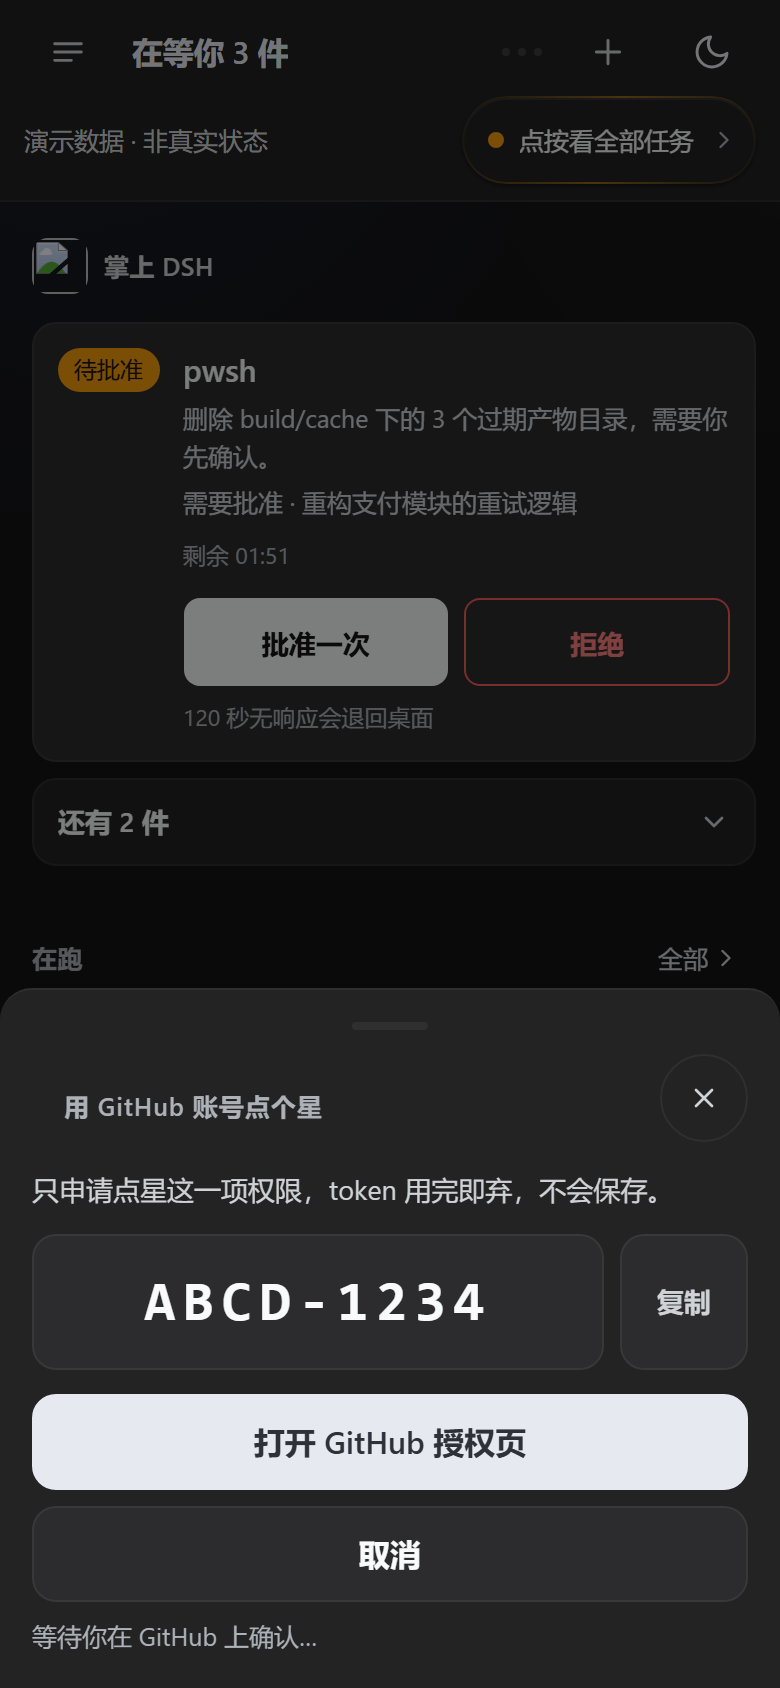
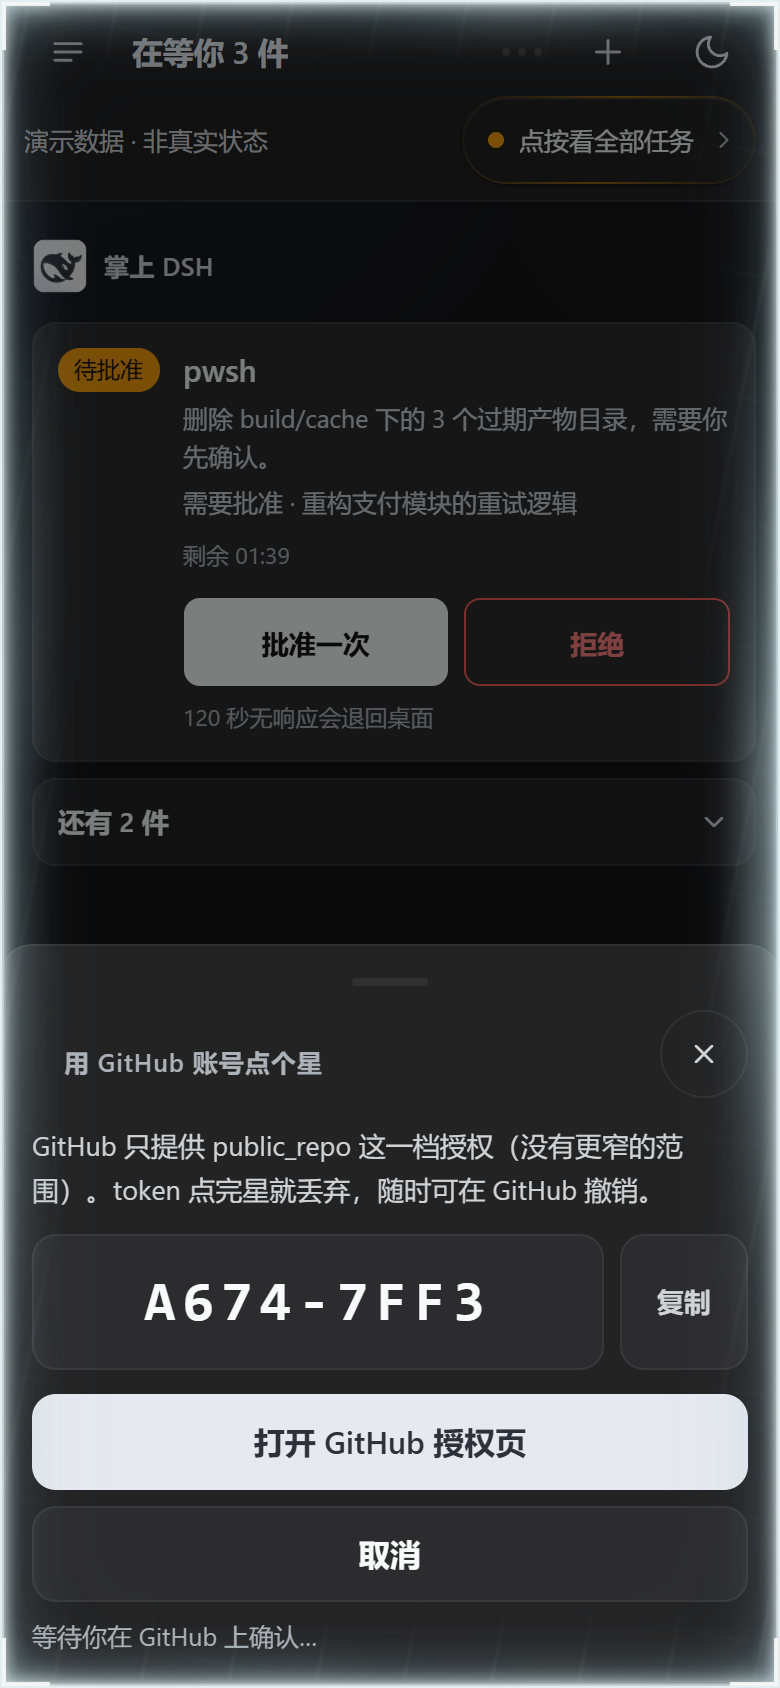
docs(demo): 演示页品牌图标改相对路径（原来 /taskwatch 绝对路径在 file:// 下是破图），并更新点星授权面板明暗截图

Changed region(s): [[0.0, 0.0, 1.0, 1.0], [0.4308, 0.7393, 0.4615, 0.8009], [0.3385, 0.3081, 0.3692, 0.3389]]

diff --git a/docs/demo.html b/docs/demo.html
@@ -29,8 +29,8 @@
 })()
 </script>
 <link rel="manifest" href="/taskwatch/manifest.webmanifest">
-<link rel="icon" type="image/png" sizes="192x192" href="/taskwatch/icon-192.png">
-<link rel="apple-touch-icon" href="/taskwatch/icon-192.png">
+<link rel="icon" type="image/png" sizes="192x192" href="../lib/icons/icon-192.png">
+<link rel="apple-touch-icon" href="../lib/icons/icon-192.png">
 <style>
 /* ---------------------------------------------------------------------------
    手机对话页。
@@ -2229,7 +2229,7 @@ html,body{overflow-x:clip}
        两处刻意不复用样式——概览不该有动效。alt 留空，因为旁边的「掌上 DSH」已经说了名字，
        读屏再念一次图标只是重复；图标若要单独存活（例如被样式隐藏文字），再补 alt。 -->
   <div class="home-brand">
-    <img class="brand" src="/taskwatch/icon-192.png" alt="" width="28" height="28" decoding="async">
+    <img class="brand" src="../lib/icons/icon-192.png" alt="" width="28" height="28" decoding="async">
     <span class="name">掌上 DSH</span>
   </div>
   <div id="homeTodo" class="home-todo"></div>
@@ -4071,11 +4071,11 @@ function renderEmpty(){
   var d = document.createElement('div')
   d.className = 'empty'
   // 空状态放 DSH 的虎鲸标。第一眼看不出"这是给谁用的"是最贵的成本，
-  // 而一个 logo 比一句解释快得多。用 /taskwatch/icon-192.png ——
+  // 而一个 logo 比一句解释快得多。用 ../lib/icons/icon-192.png ——
   // 中继和宿主都提供它，不额外引入一次请求。
   var logo = document.createElement('img')
   logo.className = 'brand'
-  logo.src = '/taskwatch/icon-192.png'
+  logo.src = '../lib/icons/icon-192.png'
   logo.alt = ''
   d.appendChild(logo)
   var h2 = document.createElement('h2'); h2.textContent = '在这里跟我说话就行'
@@ -10277,12 +10277,12 @@ window.addEventListener('popstate', function(){
   applyRoute()
 })
 
-var DEMO={"generatedAt":1793613661206,"offline":false,"errors":[],"riskConfirm":true,"totals":{"sessions":7,"running":4,"jobs":5,"jobsRunning":3,"subagents":2,"workflows":1,"pending":3},"today":{"since":1793592061206,"turns":37,"steps":1291,"sessions":3,"partial":false},"pending":[{"id":"approval-demo","kind":"approval/request","title":"pwsh","detail":"删除 build/cache 下的 3 个过期产物目录，需要你先确认。","session":"session-demo-a","sessionTitle":"重构支付模块的重试逻辑","at":1793613616206,"canDecide":true,"expiresAt":1793613774206,"timeoutMs":120000},{"id":"approval-demo-high","kind":"approval/request","title":"pwsh","detail":"在仓库根目录执行 npm publish --access public，把 1.8.8 发到 npm。","risk":"high","session":"session-demo-a","sessionTitle":"重构支付模块的重试逻辑","at":1793613621206,"canDecide":true,"expiresAt":1793613771206,"timeoutMs":120000},{"id":"question-demo","kind":"question","title":"发布窗口","detail":"今天 18:00 还是明天 10:00 发？留空就按明天。","session":"session-demo-a","sessionTitle":"重构支付模块的重试逻辑","at":1793613631206,"canDecide":true,"expiresAt":1793613779206,"timeoutMs":120000,"multiSelect":false,"options":[{"label":"今天 18:00","description":"下班前发，晚高峰前收工"},{"label":"明天 10:00","description":"留一晚观察，明早再发"}],"questions":[{"id":"q-window","header":"发布窗口","question":"发布窗口选哪个？","options":[{"label":"今天 18:00","description":"下班前发，晚高峰前收工"},{"label":"明天 10:00","description":"留一晚观察，明早再发"}],"multiSelect":false}]}],"sessions":[{"id":"session-demo-a","title":"重构支付模块的重试逻辑","running":true,"activeJobs":2,"live":true,"origin":"root","depth":0,"preset":"cordis","cwd":"~/projects/payments","updatedAt":1793613658206,"lastActivity":1793613658206,"lastTool":"pwsh","lastToolAt":1793613652206,"turnStartedAt":1793613475206,"stepsInTurn":7,"goal":{"phase":"active","roundsStarted":7,"maxGoalRounds":50,"activation":"armed","objective":"把支付回调的重试从固定间隔改成指数退避，并补齐幂等键的边界用例。"}},{"id":"session-demo-b","title":"整理季度报表导出","running":true,"activeJobs":1,"live":true,"origin":"root","depth":0,"preset":"cordis","cwd":"~/projects/reports","updatedAt":1793613643206,"lastActivity":1793613643206,"lastTool":"edit","lastToolAt":1793613635206,"turnStartedAt":1793613597206,"stepsInTurn":3,"goal":{"phase":"active","roundsStarted":3,"maxGoalRounds":20,"activation":"armed","objective":"导出去年四个季度的报表并核对口径。"}},{"id":"session-demo-c","title":"排查登录态失效问题","running":false,"activeJobs":0,"live":true,"origin":"root","depth":0,"preset":"cordis","cwd":"~/projects/web","updatedAt":1793611801206,"lastActivity":1793611801206,"lastTool":"pwsh","lastToolAt":1793611761206,"turnStartedAt":1793611561206,"stepsInTurn":5,"failure":{"at":1793611801206,"kind":"error","reason":"命令 pnpm test --filter auth 退出码 1：refresh token 的过期用例在并发下偶发失败，需要先修好再继续，否则后面的 e2e 全部会跟着红。"},"goal":null},{"id":"session-demo-d","title":"核对接口字段","running":true,"activeJobs":0,"live":true,"origin":"subagent","parent":"session-demo-a","depth":1,"preset":"cordis","cwd":"~/projects/payments","updatedAt":1793613649206,"lastActivity":1793613649206,"lastTool":"grep","lastToolAt":1793613641206,"turnStartedAt":1793613620206,"stepsInTurn":2,"goal":null},{"id":"session-demo-e","title":"翻译发布说明","running":false,"activeJobs":0,"live":true,"origin":"subagent","parent":"session-demo-b","depth":1,"preset":"cordis","cwd":"~/projects/reports","updatedAt":1793613021206,"lastActivity":1793613021206,"goal":null},{"id":"session-demo-f","title":"给发布流程补一份可回滚检查","running":true,"activeJobs":0,"live":true,"origin":"root","depth":0,"preset":"cordis","cwd":"~/projects/release","updatedAt":1793613655206,"lastActivity":1793613655206,"lastTool":"read","lastToolAt":1793613647206,"turnStartedAt":1793613586206,"stepsInTurn":4,"goal":null},{"id":"session-demo-g","title":"整理接口文档里的旧字段示例","running":false,"activeJobs":0,"live":true,"origin":"root","depth":0,"preset":"cordis","cwd":"~/projects/docs","updatedAt":1793608261206,"lastActivity":1793608261206,"lastTool":"edit","lastToolAt":1793608161206,"turnStartedAt":0,"stepsInTurn":null,"failure":null,"goal":null}],"jobs":[{"id":"job-1","label":"pnpm test --filter payments","kind":"pwsh","status":"running","owner":"session-demo-a","startedAt":1793613351206,"finishedAt":0},{"id":"job-2","label":"node scripts/build.mjs","kind":"pwsh","status":"running","owner":"session-demo-a","startedAt":1793613566206,"finishedAt":0},{"id":"job-3","label":"node scripts/export-report.mjs --quarter Q3","kind":"pwsh","status":"running","owner":"session-demo-b","startedAt":1793612941206,"finishedAt":0},{"id":"job-4","label":"git log --oneline -50","kind":"pwsh","status":"done","owner":"session-demo-c","startedAt":1793610661206,"finishedAt":1793610663206},{"id":"job-5","label":"node scripts/make-icons.mjs","kind":"pwsh","status":"failed","owner":"session-demo-b","startedAt":1793608461206,"finishedAt":1793608466206}],"subagents":[{"id":"session-demo-d","label":"核对接口字段","mode":"subagent","activity":"running","depth":1,"parent":"session-demo-a"},{"id":"session-demo-e","label":"翻译发布说明","mode":"subagent","activity":"idle","depth":1,"parent":"session-demo-b"}],"workflows":[{"id":"wf-demo-1","name":"回归测试与发布检查","phase":"verify","logs":42,"startedAt":1793611861206}]};
-var DEMO_DEVICES={"ok":true,"capacity":50,"idleDays":30,"current":"demo-current","devices":[{"id":"demo-current","name":"iPhone · iOS 17.1 · Safari","firstSeen":1792836061206,"lastSeen":1793613621206,"via":"lan","sessions":3,"revoked":false,"current":true},{"id":"demo-mac","name":"MacBook · macOS · Safari","firstSeen":1793095261206,"lastSeen":1793606461206,"via":"remote","sessions":1,"revoked":false,"current":false},{"id":"demo-long","name":"Windows · Chrome · 公司配发的 ThinkPad X1 Carbon（受策略管理，设备名称很长很长）","firstSeen":1791885661206,"lastSeen":1793354461206,"via":"remote","sessions":2,"revoked":false,"current":false}]};
+var DEMO={"generatedAt":1793614761570,"offline":false,"errors":[],"riskConfirm":true,"totals":{"sessions":7,"running":4,"jobs":5,"jobsRunning":3,"subagents":2,"workflows":1,"pending":3},"today":{"since":1793593161570,"turns":37,"steps":1291,"sessions":3,"partial":false},"pending":[{"id":"approval-demo","kind":"approval/request","title":"pwsh","detail":"删除 build/cache 下的 3 个过期产物目录，需要你先确认。","session":"session-demo-a","sessionTitle":"重构支付模块的重试逻辑","at":1793614716570,"canDecide":true,"expiresAt":1793614874570,"timeoutMs":120000},{"id":"approval-demo-high","kind":"approval/request","title":"pwsh","detail":"在仓库根目录执行 npm publish --access public，把 1.8.8 发到 npm。","risk":"high","session":"session-demo-a","sessionTitle":"重构支付模块的重试逻辑","at":1793614721570,"canDecide":true,"expiresAt":1793614871570,"timeoutMs":120000},{"id":"question-demo","kind":"question","title":"发布窗口","detail":"今天 18:00 还是明天 10:00 发？留空就按明天。","session":"session-demo-a","sessionTitle":"重构支付模块的重试逻辑","at":1793614731570,"canDecide":true,"expiresAt":1793614879570,"timeoutMs":120000,"multiSelect":false,"options":[{"label":"今天 18:00","description":"下班前发，晚高峰前收工"},{"label":"明天 10:00","description":"留一晚观察，明早再发"}],"questions":[{"id":"q-window","header":"发布窗口","question":"发布窗口选哪个？","options":[{"label":"今天 18:00","description":"下班前发，晚高峰前收工"},{"label":"明天 10:00","description":"留一晚观察，明早再发"}],"multiSelect":false}]}],"sessions":[{"id":"session-demo-a","title":"重构支付模块的重试逻辑","running":true,"activeJobs":2,"live":true,"origin":"root","depth":0,"preset":"cordis","cwd":"~/projects/payments","updatedAt":1793614758570,"lastActivity":1793614758570,"lastTool":"pwsh","lastToolAt":1793614752570,"turnStartedAt":1793614575570,"stepsInTurn":7,"goal":{"phase":"active","roundsStarted":7,"maxGoalRounds":50,"activation":"armed","objective":"把支付回调的重试从固定间隔改成指数退避，并补齐幂等键的边界用例。"}},{"id":"session-demo-b","title":"整理季度报表导出","running":true,"activeJobs":1,"live":true,"origin":"root","depth":0,"preset":"cordis","cwd":"~/projects/reports","updatedAt":1793614743570,"lastActivity":1793614743570,"lastTool":"edit","lastToolAt":1793614735570,"turnStartedAt":1793614697570,"stepsInTurn":3,"goal":{"phase":"active","roundsStarted":3,"maxGoalRounds":20,"activation":"armed","objective":"导出去年四个季度的报表并核对口径。"}},{"id":"session-demo-c","title":"排查登录态失效问题","running":false,"activeJobs":0,"live":true,"origin":"root","depth":0,"preset":"cordis","cwd":"~/projects/web","updatedAt":1793612901570,"lastActivity":1793612901570,"lastTool":"pwsh","lastToolAt":1793612861570,"turnStartedAt":1793612661570,"stepsInTurn":5,"failure":{"at":1793612901570,"kind":"error","reason":"命令 pnpm test --filter auth 退出码 1：refresh token 的过期用例在并发下偶发失败，需要先修好再继续，否则后面的 e2e 全部会跟着红。"},"goal":null},{"id":"session-demo-d","title":"核对接口字段","running":true,"activeJobs":0,"live":true,"origin":"subagent","parent":"session-demo-a","depth":1,"preset":"cordis","cwd":"~/projects/payments","updatedAt":1793614749570,"lastActivity":1793614749570,"lastTool":"grep","lastToolAt":1793614741570,"turnStartedAt":1793614720570,"stepsInTurn":2,"goal":null},{"id":"session-demo-e","title":"翻译发布说明","running":false,"activeJobs":0,"live":true,"origin":"subagent","parent":"session-demo-b","depth":1,"preset":"cordis","cwd":"~/projects/reports","updatedAt":1793614121570,"lastActivity":1793614121570,"goal":null},{"id":"session-demo-f","title":"给发布流程补一份可回滚检查","running":true,"activeJobs":0,"live":true,"origin":"root","depth":0,"preset":"cordis","cwd":"~/projects/release","updatedAt":1793614755570,"lastActivity":1793614755570,"lastTool":"read","lastToolAt":1793614747570,"turnStartedAt":1793614686570,"stepsInTurn":4,"goal":null},{"id":"session-demo-g","title":"整理接口文档里的旧字段示例","running":false,"activeJobs":0,"live":true,"origin":"root","depth":0,"preset":"cordis","cwd":"~/projects/docs","updatedAt":1793609361570,"lastActivity":1793609361570,"lastTool":"edit","lastToolAt":1793609261570,"turnStartedAt":0,"stepsInTurn":null,"failure":null,"goal":null}],"jobs":[{"id":"job-1","label":"pnpm test --filter payments","kind":"pwsh","status":"running","owner":"session-demo-a","startedAt":1793614451570,"finishedAt":0},{"id":"job-2","label":"node scripts/build.mjs","kind":"pwsh","status":"running","owner":"session-demo-a","startedAt":1793614666570,"finishedAt":0},{"id":"job-3","label":"node scripts/export-report.mjs --quarter Q3","kind":"pwsh","status":"running","owner":"session-demo-b","startedAt":1793614041570,"finishedAt":0},{"id":"job-4","label":"git log --oneline -50","kind":"pwsh","status":"done","owner":"session-demo-c","startedAt":1793611761570,"finishedAt":1793611763570},{"id":"job-5","label":"node scripts/make-icons.mjs","kind":"pwsh","status":"failed","owner":"session-demo-b","startedAt":1793609561570,"finishedAt":1793609566570}],"subagents":[{"id":"session-demo-d","label":"核对接口字段","mode":"subagent","activity":"running","depth":1,"parent":"session-demo-a"},{"id":"session-demo-e","label":"翻译发布说明","mode":"subagent","activity":"idle","depth":1,"parent":"session-demo-b"}],"workflows":[{"id":"wf-demo-1","name":"回归测试与发布检查","phase":"verify","logs":42,"startedAt":1793612961570}]};
+var DEMO_DEVICES={"ok":true,"capacity":50,"idleDays":30,"current":"demo-current","devices":[{"id":"demo-current","name":"iPhone · iOS 17.1 · Safari","firstSeen":1792837161570,"lastSeen":1793614721570,"via":"lan","sessions":3,"revoked":false,"current":true},{"id":"demo-mac","name":"MacBook · macOS · Safari","firstSeen":1793096361570,"lastSeen":1793607561570,"via":"remote","sessions":1,"revoked":false,"current":false},{"id":"demo-long","name":"Windows · Chrome · 公司配发的 ThinkPad X1 Carbon（受策略管理，设备名称很长很长）","firstSeen":1791886761570,"lastSeen":1793355561570,"via":"remote","sessions":2,"revoked":false,"current":false}]};
 var DEMO_NOTIFY={"ok":true,"enabled":true,"anyEnabled":true,"limits":{"maxChannels":8,"timeoutMs":8000,"attempts":3,"reasonMax":30},"preview":"1 件事等你：pwsh · 删除 build/cache 下的…","channels":[{"id":"ntf-demo-feishu","type":"feishu","format":"json","enabled":true,"masked":"https://open.feishu.cn/…/000…（已保存）"},{"id":"ntf-demo-sct","type":"serverchan","enabled":true,"masked":"SCT…a1b2"},{"id":"ntf-demo-hook","type":"webhook","format":"form","enabled":false,"masked":"https://example.com/…/abc…（已保存）"}]};
-var DEMO_PUSH={"ok":true,"vapid":"BAAAAAAAAAAAAAAAAAAAAAAAAAAAAAAAAAAAAAAAAAAAAAAAAAAAAAAAAAAAAAAAAAAAAAAAAAAAAAAAAAAAAAA","devices":2,"total":2,"mine":1,"limits":{"total":20,"perDevice":5,"endpointMax":1024},"subscriptions":[{"id":"push-demo-phone","masked":"https://fcm.googleapis.com/…/AbCdEf","uaShort":"Chrome · Android","origin":"https://dsh.example.com","createdAt":1793613661206,"lastOkAt":1793613661206,"mine":true},{"id":"push-demo-old","masked":"https://fcm.googleapis.com/…/Zx9Qw3","uaShort":"Safari · iOS","origin":"https://dsh.example.com","createdAt":1793527261206,"lastOkAt":null,"mine":false}]};
[1 lines of base64/hex data omitted]
-var DEMO_AGENT_ITEMS=[{"kind":"user","time":1793612761206,"text":"把发布说明里的接口示例换成新的字段名。"},{"kind":"assistant","time":1793612781206,"durationMs":2600,"text":"已定位到 3 处示例，旧字段名统一成 `retryPolicy`。"},{"kind":"tool","callId":"sa1","name":"grep","hint":"retry","status":"ok"},{"kind":"tool","callId":"sa2","name":"edit","hint":"docs/release-notes.md","status":"ok"},{"kind":"assistant","time":1793612841206,"durationMs":1200,"text":"字段名已经统一，并保留了一段旧名兼容说明。"}];
+var DEMO_PUSH={"ok":true,"vapid":"BAAAAAAAAAAAAAAAAAAAAAAAAAAAAAAAAAAAAAAAAAAAAAAAAAAAAAAAAAAAAAAAAAAAAAAAAAAAAAAAAAAAAAA","devices":2,"total":2,"mine":1,"limits":{"total":20,"perDevice":5,"endpointMax":1024},"subscriptions":[{"id":"push-demo-phone","masked":"https://fcm.googleapis.com/…/AbCdEf","uaShort":"Chrome · Android","origin":"https://dsh.example.com","createdAt":1793614761570,"lastOkAt":1793614761570,"mine":true},{"id":"push-demo-old","masked":"https://fcm.googleapis.com/…/Zx9Qw3","uaShort":"Safari · iOS","origin":"https://dsh.example.com","createdAt":1793528361570,"lastOkAt":null,"mine":false}]};
[1 lines of base64/hex data omitted]
+var DEMO_AGENT_ITEMS=[{"kind":"user","time":1793613861570,"text":"把发布说明里的接口示例换成新的字段名。"},{"kind":"assistant","time":1793613881570,"durationMs":2600,"text":"已定位到 3 处示例，旧字段名统一成 `retryPolicy`。"},{"kind":"tool","callId":"sa1","name":"grep","hint":"retry","status":"ok"},{"kind":"tool","callId":"sa2","name":"edit","hint":"docs/release-notes.md","status":"ok"},{"kind":"assistant","time":1793613941570,"durationMs":1200,"text":"字段名已经统一，并保留了一段旧名兼容说明。"}];
 var DEMO_SESSION_ITEMS={"session-demo-a":DEMO_ITEMS,"session-demo-d":DEMO_AGENT_ITEMS};
 var _twShift=Date.now()-DEMO.generatedAt;
 function _twAt(n){ return typeof n==="number" && n>1e12 ? n+_twShift : n }
